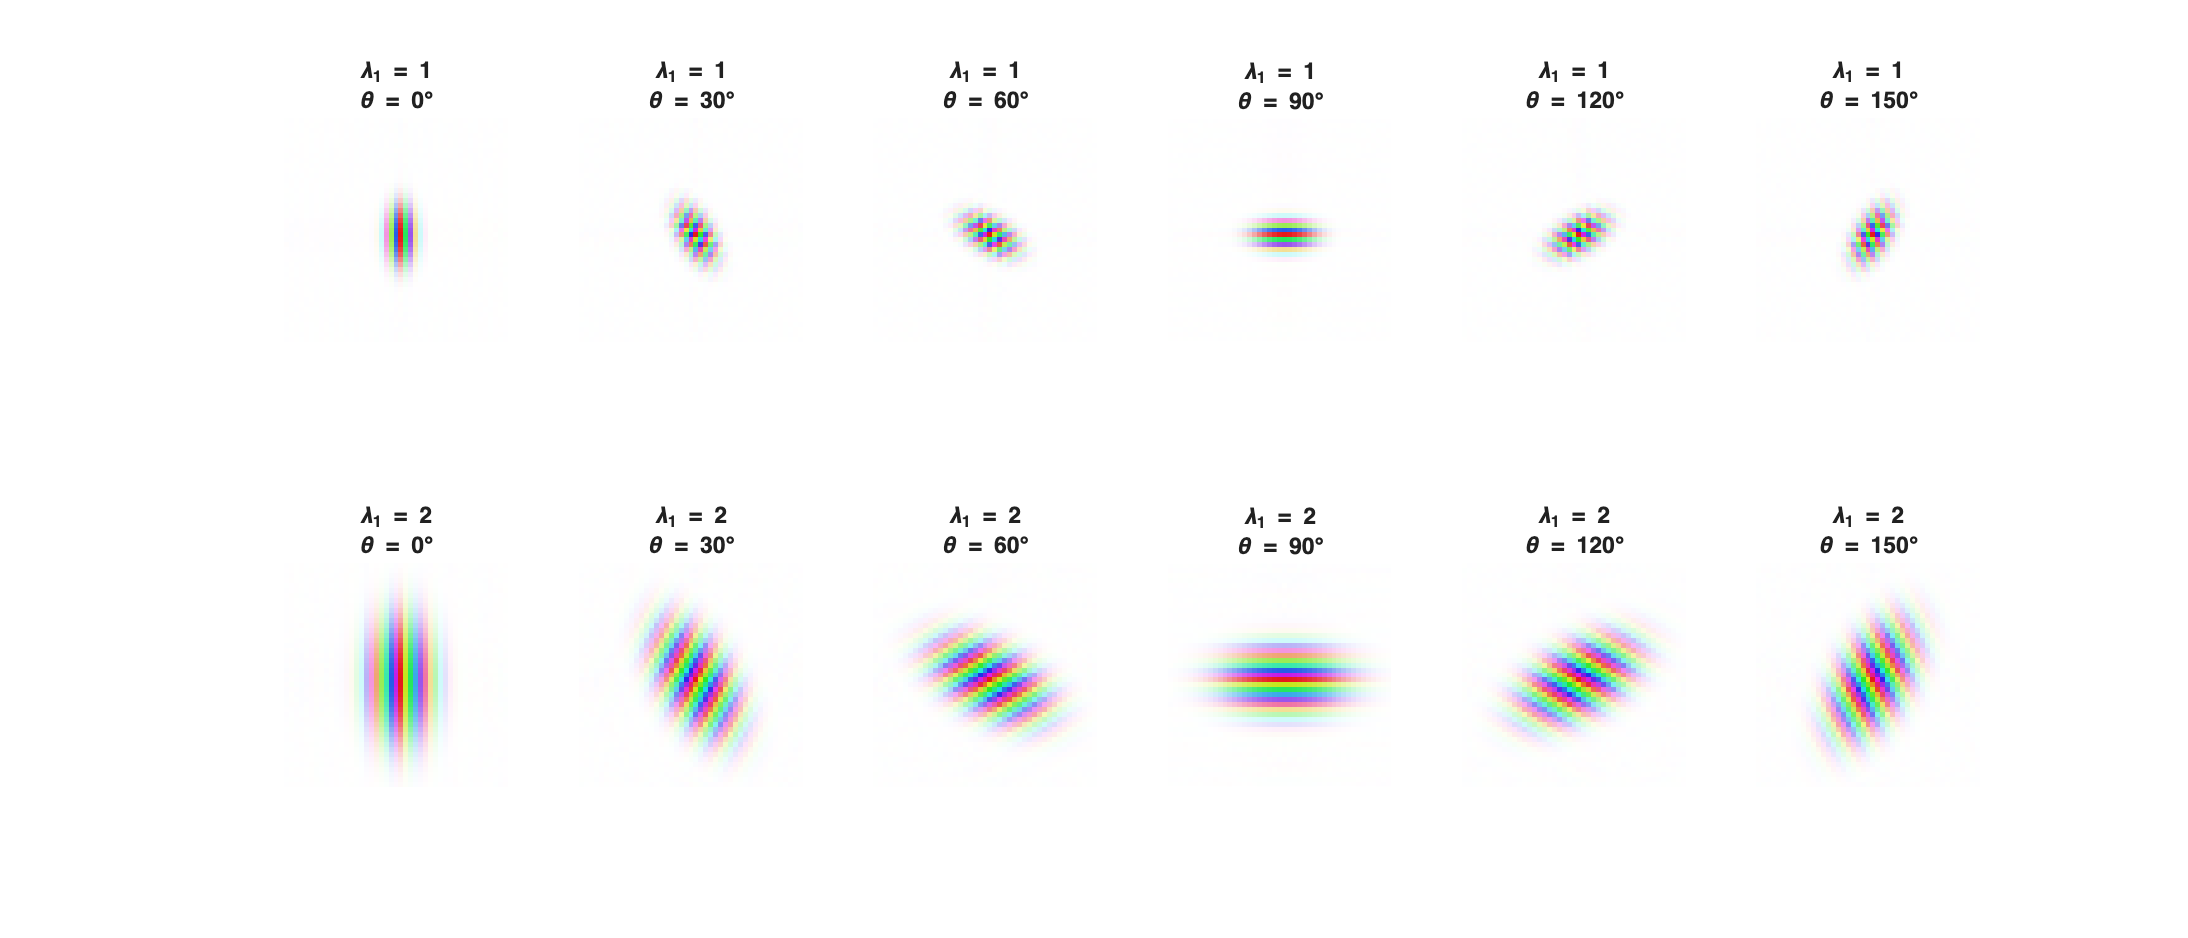
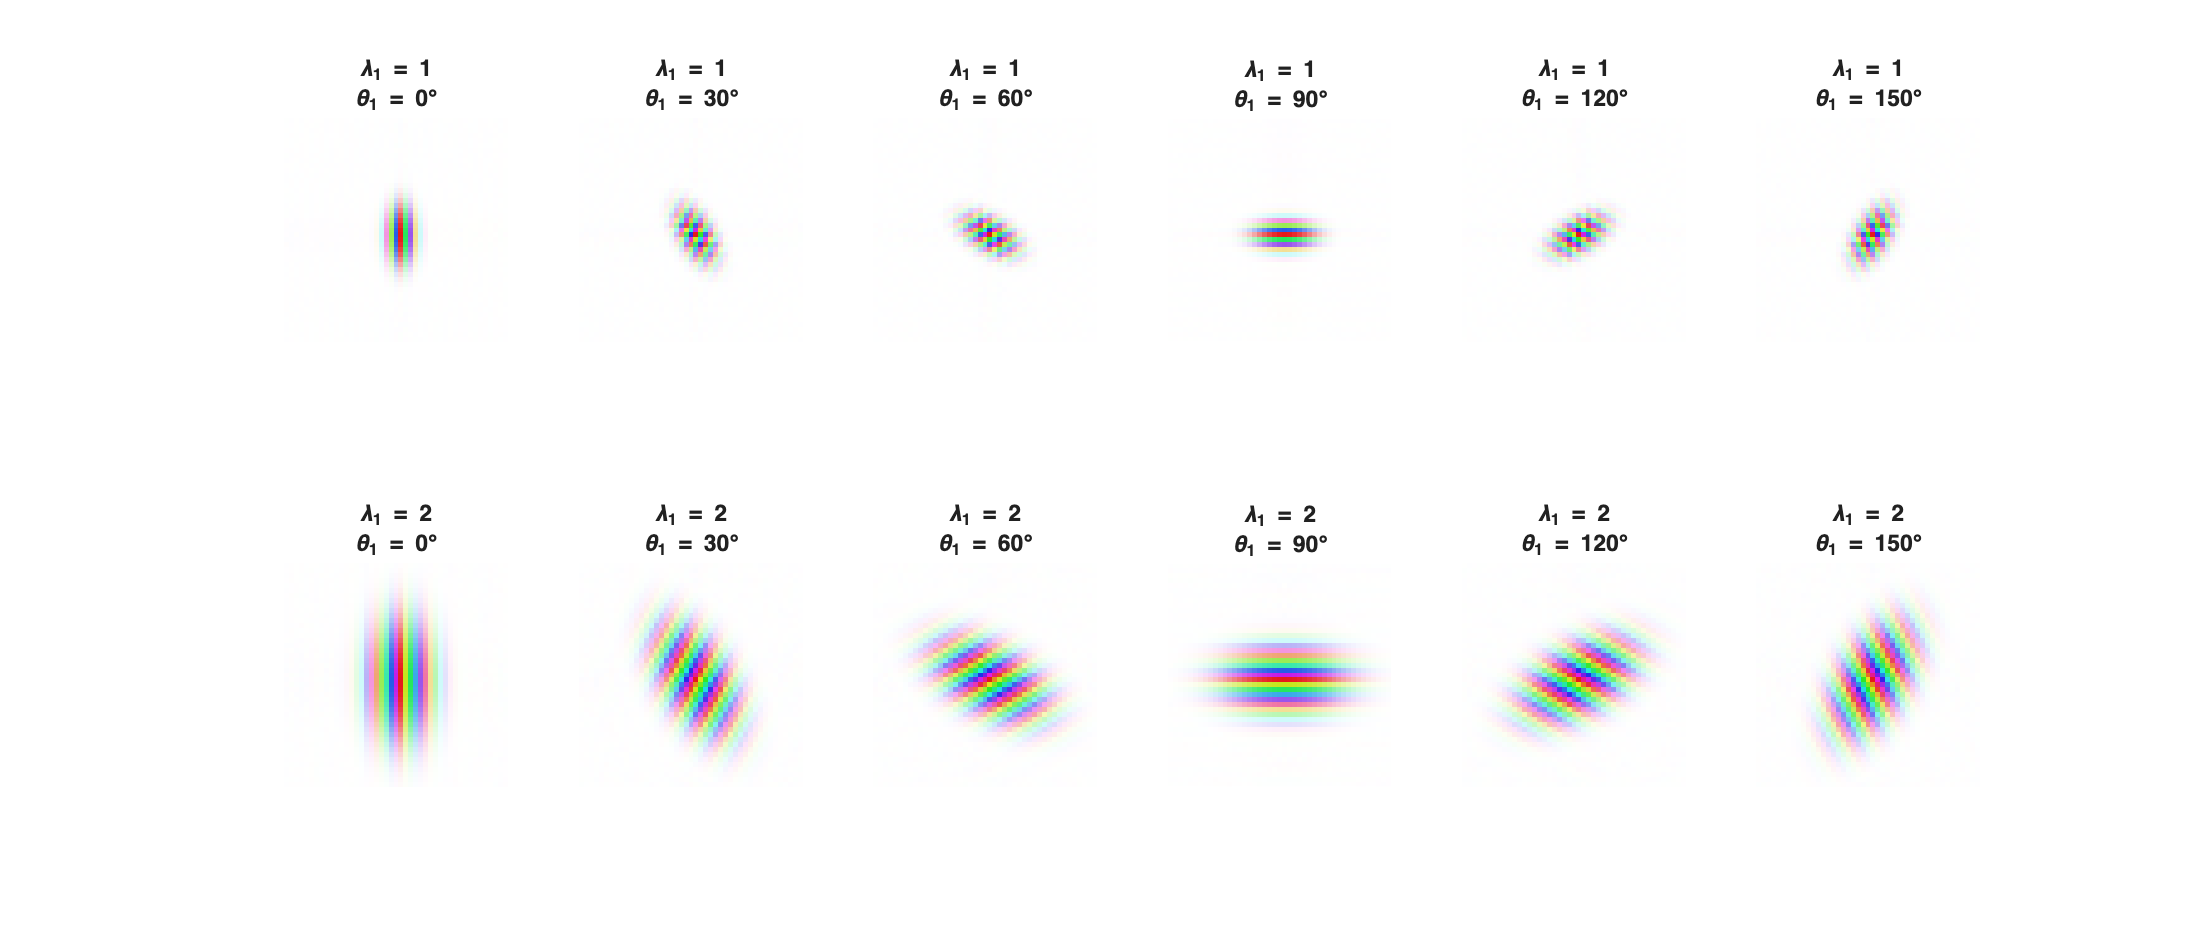
Minor Fix: "\theta to \theta_1"

diff --git a/Vizualize_Wavelets.m b/Vizualize_Wavelets.m
@@ -108,7 +108,7 @@ for k = 1:numFilters
 
     % Add title with lambda and angle in degrees
     angle_deg = angles(theta_idx + 1) * 180 / pi;
-    title(sprintf('\\lambda_1 = %d\n\\theta = %d°', lambda_1, round(angle_deg)), ...
+    title(sprintf('\\lambda_1 = %d\n\\theta_1 = %d°', lambda_1, round(angle_deg)), ...
           'FontSize', 11, 'FontWeight', 'bold');
 end
 
